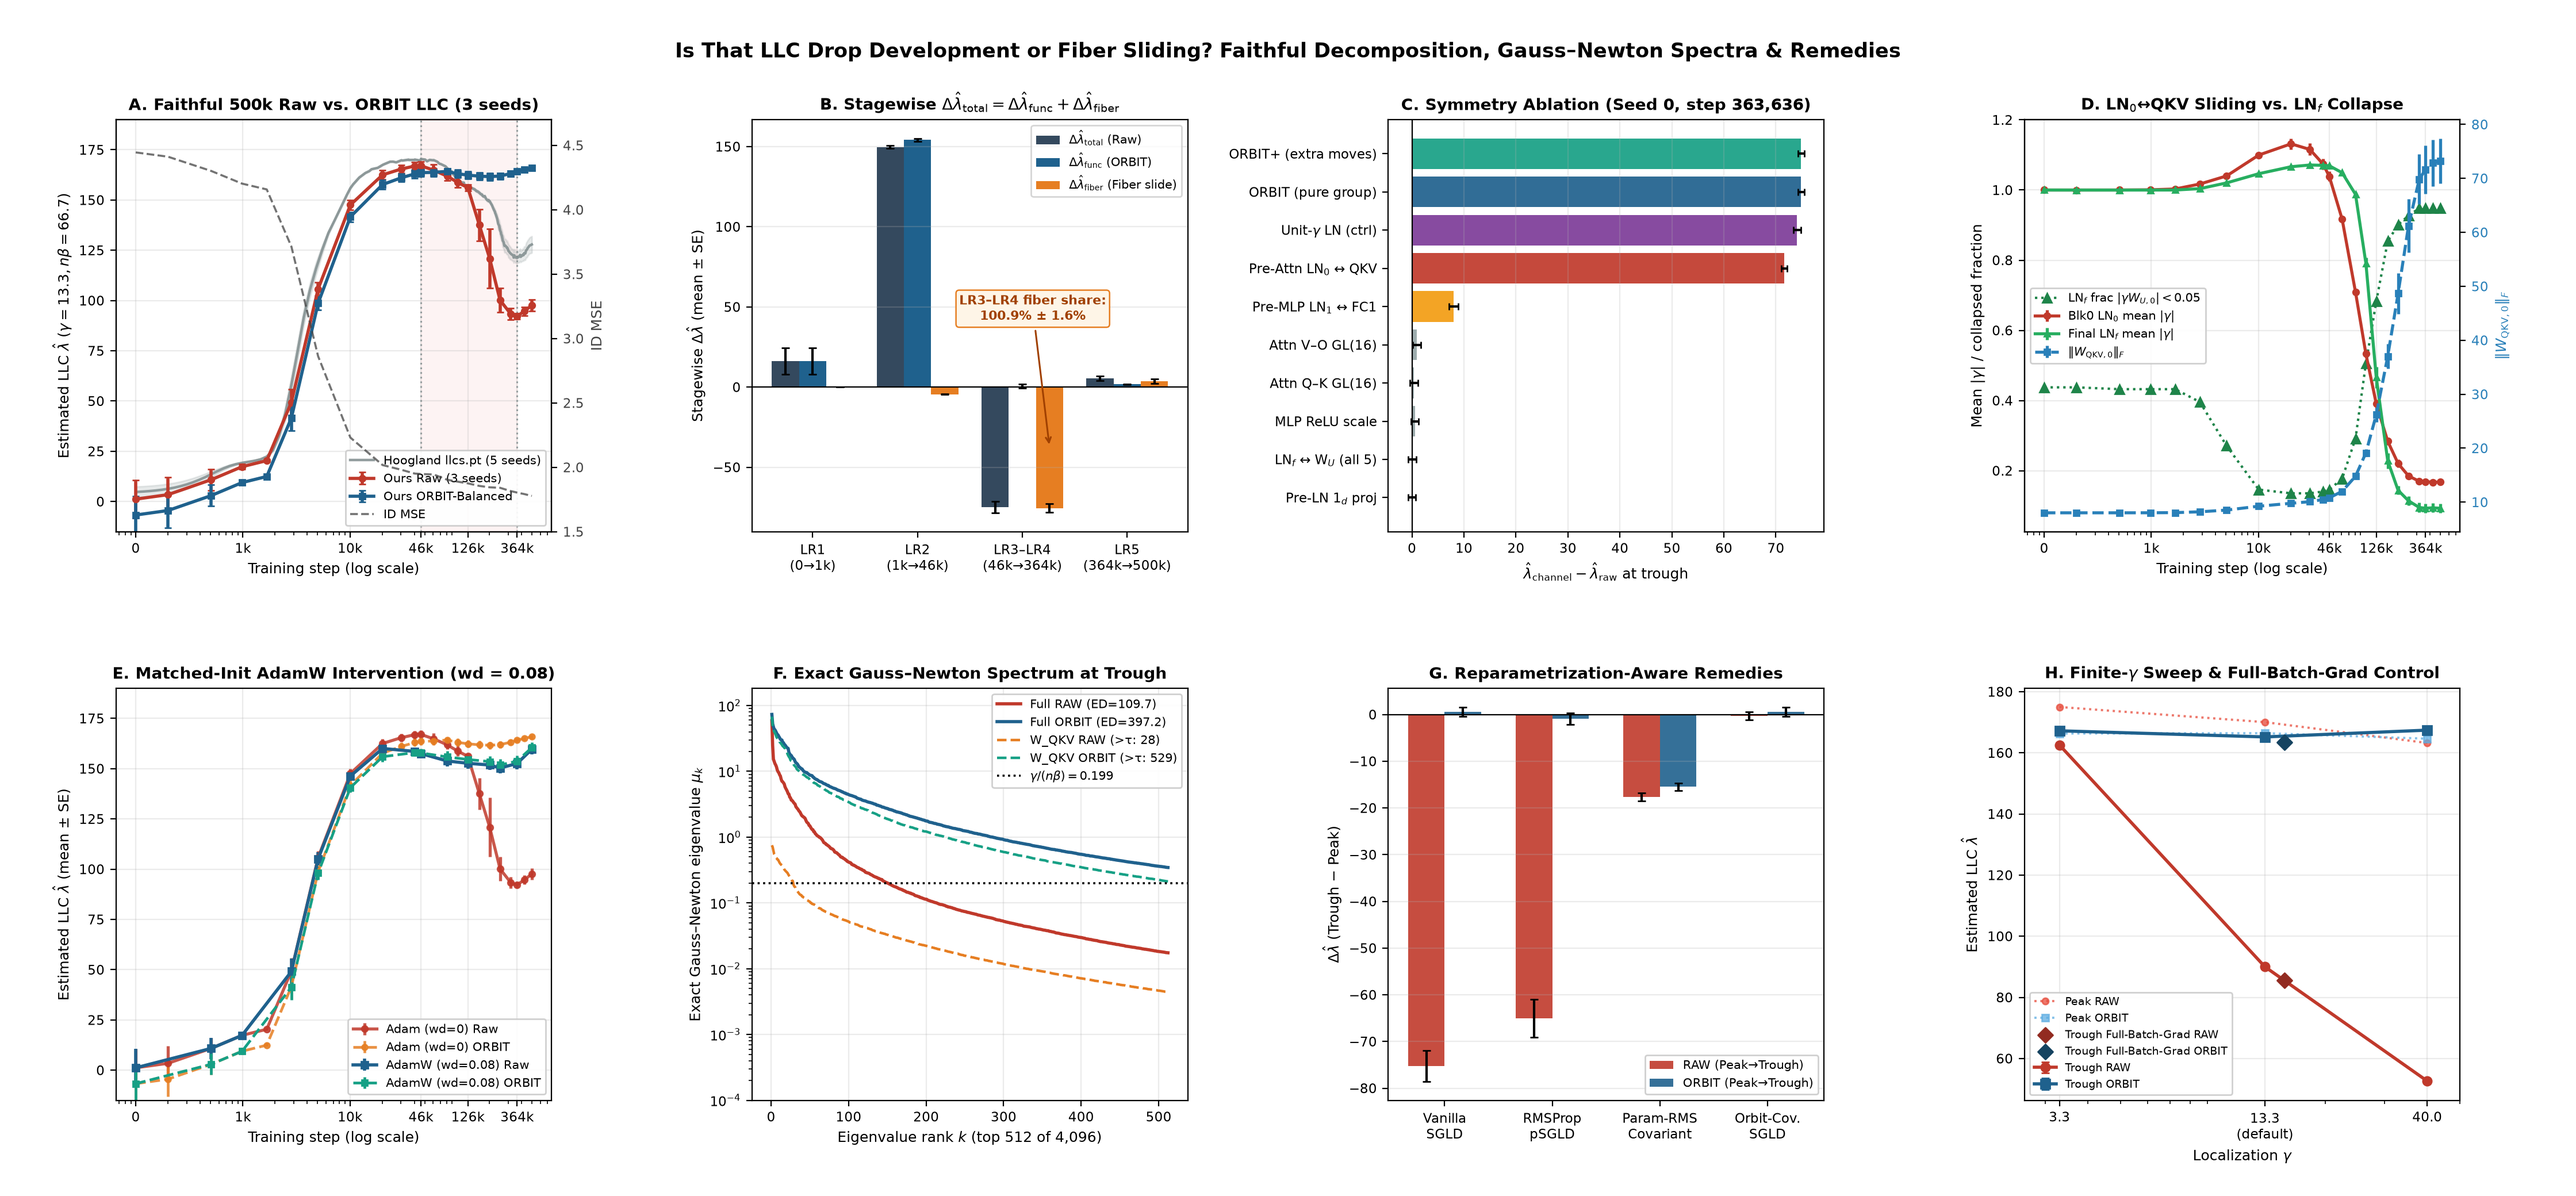
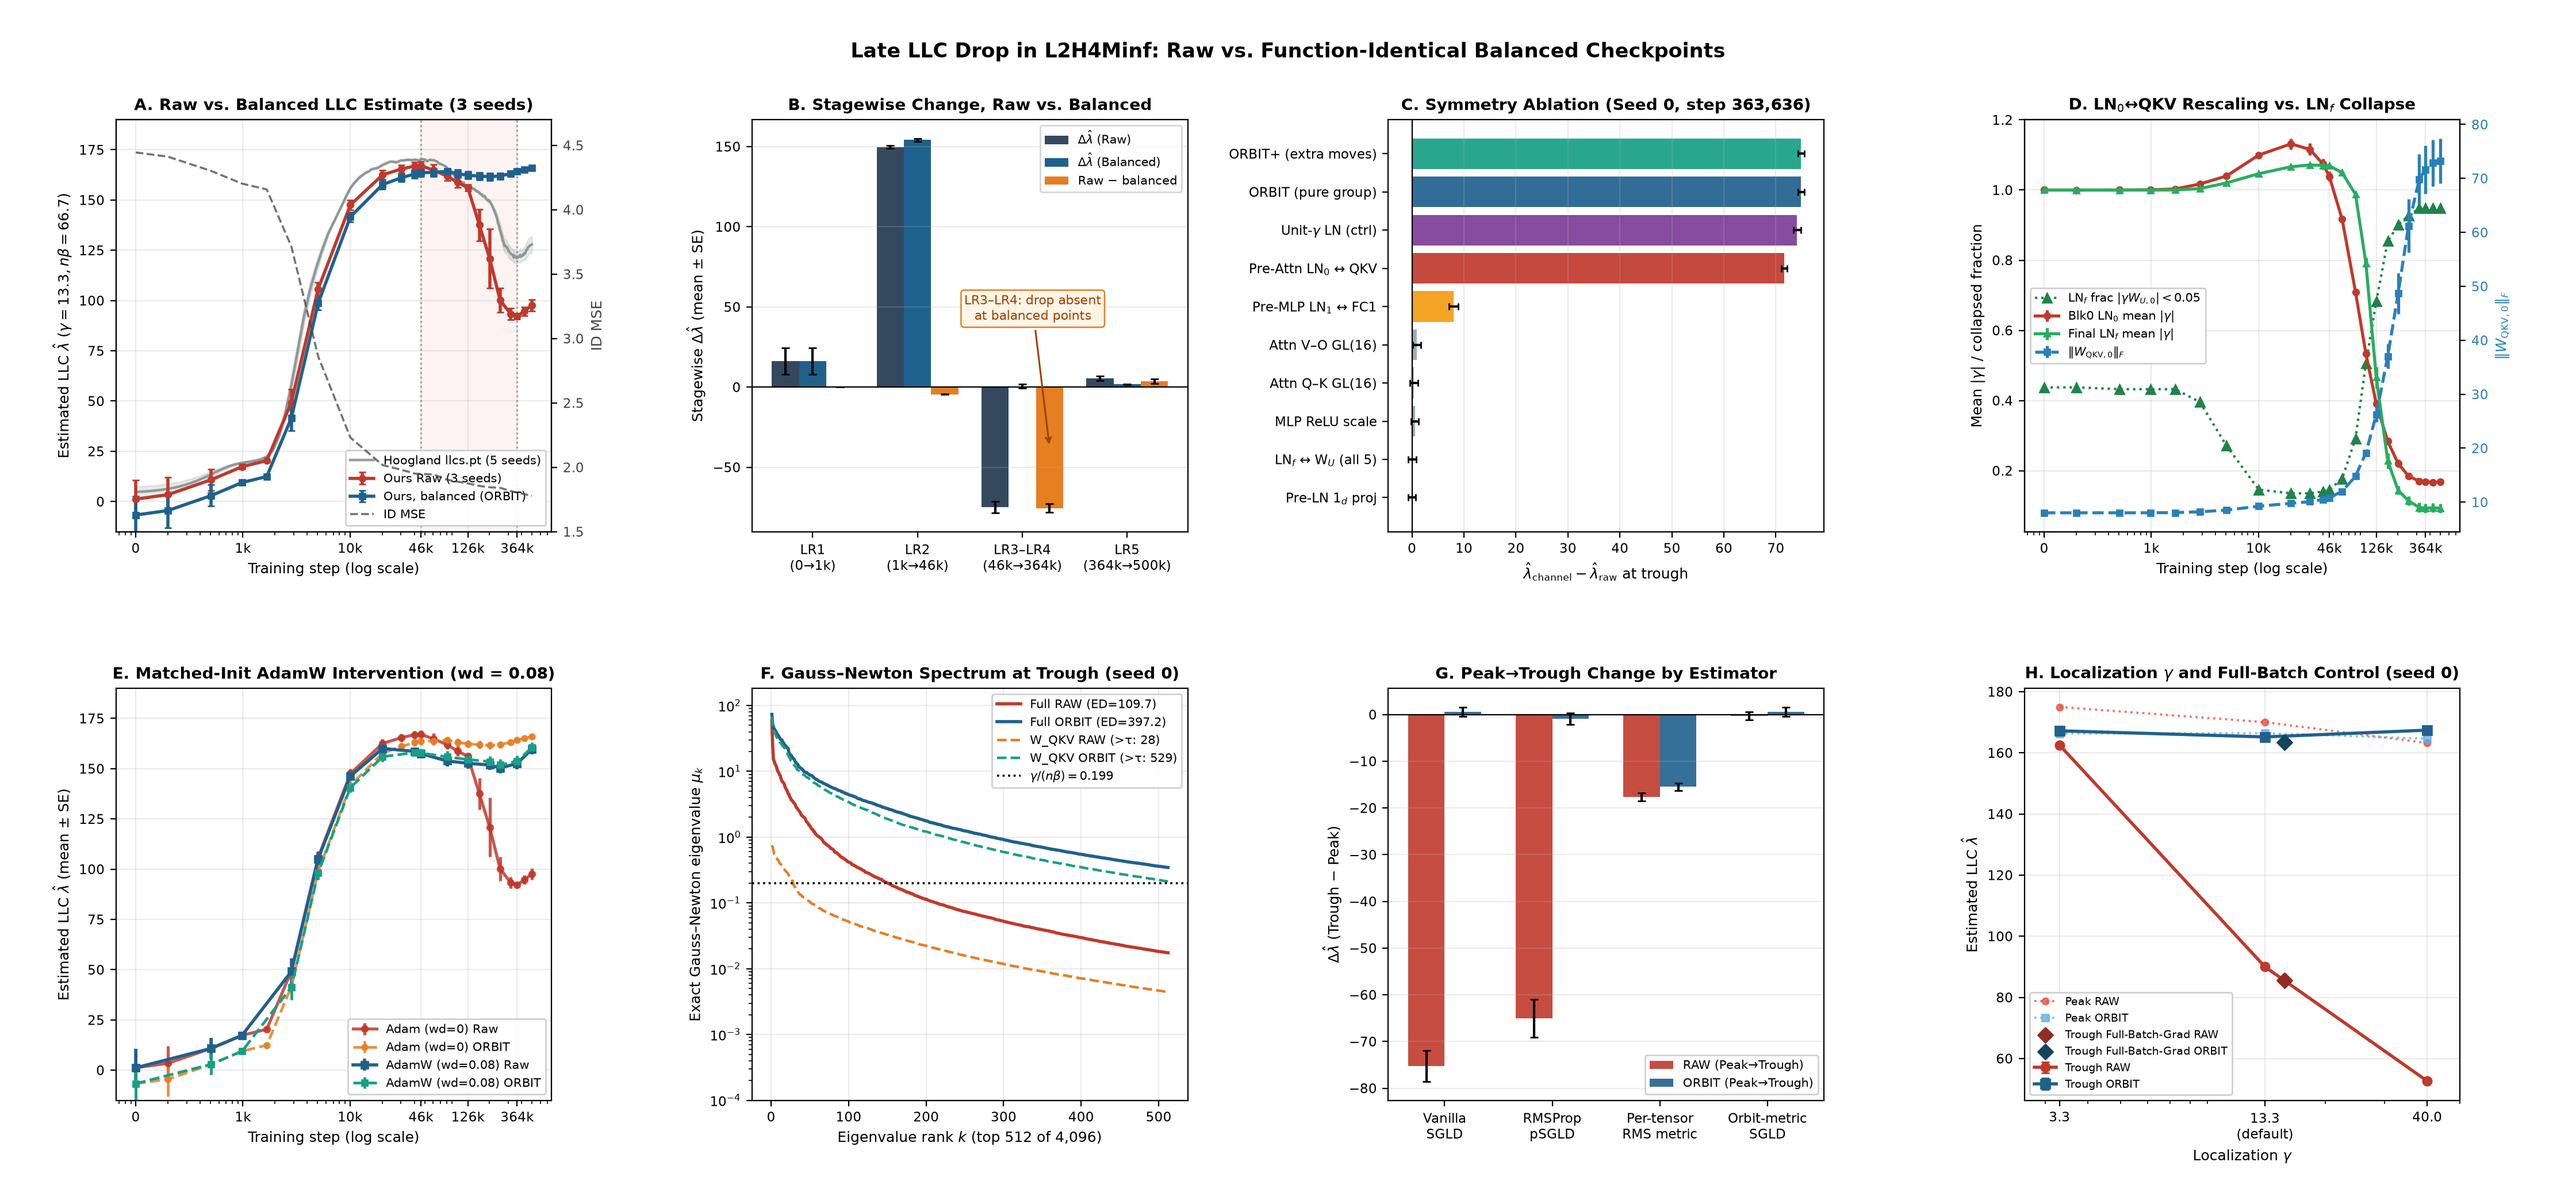
Track A figure: plain panel titles, drop 'faithful' and fiber-share callout (replot only, data unchanged)

diff --git a/experiments/devinterp_fiber_decomposition.py b/experiments/devinterp_fiber_decomposition.py
@@ -1,6 +1,6 @@
 """
-Track A Empirical Study (Faithful 500k + Remedies):
-"Is That LLC Drop Development, or Is the Estimator Sliding Along a Symmetry Fiber?"
+Track A: the late LLC drop in Hoogland et al.'s L2H4Minf, raw vs. function-identical
+balanced checkpoints (3-seed 500k rerun, estimator comparison, controls).
 
 Applies exact full-model iso-functional canonicalization (`ORBIT`: pure invertible group
 actions preserving all 5 DTransformer output channels; `ORBIT+`: extra norm-reducing moves
@@ -2285,7 +2285,7 @@ def plot_results(data: dict[str, Any], png_path: Path = DEFAULT_PNG_PATH) -> Non
         ax.fill_between(hs, hm - hse, hm + hse, color="#7f8c8d", alpha=0.18)
 
     ax.errorbar(x_a, raw_m, yerr=raw_se, fmt="-o", color="#c0392b", lw=2.0, ms=3.8, capsize=2.2, label=f"Ours Raw ({n_seeds} seeds)")
-    ax.errorbar(x_a, orb_m, yerr=orb_se, fmt="-s", color="#1f618d", lw=2.0, ms=3.8, capsize=2.2, label="Ours ORBIT-Balanced")
+    ax.errorbar(x_a, orb_m, yerr=orb_se, fmt="-s", color="#1f618d", lw=2.0, ms=3.8, capsize=2.2, label="Ours, balanced (ORBIT)")
     ax.set_xscale("log")
     if t_max >= 100_000:
         ax.set_xticks([100, 1000, 10000, 46003, 126262, 363636])
@@ -2293,7 +2293,7 @@ def plot_results(data: dict[str, Any], png_path: Path = DEFAULT_PNG_PATH) -> Non
         ax.xaxis.set_minor_formatter(plt.NullFormatter())
     ax.set_xlabel("Training step (log scale)")
     ax.set_ylabel(r"Estimated LLC $\hat\lambda$ ($\gamma=13.3, n\beta=66.7$)")
-    ax.set_title(f"A. Faithful 500k Raw vs. ORBIT LLC ({n_seeds} seeds)")
+    ax.set_title(f"A. Raw vs. Balanced LLC Estimate ({n_seeds} seeds)")
     ax.set_ylim(-15, 190)
     ax.grid(True, alpha=0.25)
 
@@ -2321,25 +2321,24 @@ def plot_results(data: dict[str, Any], png_path: Path = DEFAULT_PNG_PATH) -> Non
     idx = np.arange(len(s_keys))
     w = 0.26
     ax.axhline(0, color="black", lw=0.8)
-    ax.bar(idx - w, [stages[k]["d_total_mean"] for k in s_keys], w, yerr=[stages[k]["d_total_se"] for k in s_keys], capsize=2.5, color="#34495e", label=r"$\Delta\hat\lambda_{\mathrm{total}}$ (Raw)")
-    ax.bar(idx,     [stages[k]["d_func_mean"]  for k in s_keys], w, yerr=[stages[k]["d_func_se"]  for k in s_keys], capsize=2.5, color="#1f618d", label=r"$\Delta\hat\lambda_{\mathrm{func}}$ (ORBIT)")
-    ax.bar(idx + w, [stages[k]["d_fiber_mean"] for k in s_keys], w, yerr=[stages[k]["d_fiber_se"] for k in s_keys], capsize=2.5, color="#e67e22", label=r"$\Delta\hat\lambda_{\mathrm{fiber}}$ (Fiber slide)")
+    ax.bar(idx - w, [stages[k]["d_total_mean"] for k in s_keys], w, yerr=[stages[k]["d_total_se"] for k in s_keys], capsize=2.5, color="#34495e", label=r"$\Delta\hat\lambda$ (Raw)")
+    ax.bar(idx,     [stages[k]["d_func_mean"]  for k in s_keys], w, yerr=[stages[k]["d_func_se"]  for k in s_keys], capsize=2.5, color="#1f618d", label=r"$\Delta\hat\lambda$ (Balanced)")
+    ax.bar(idx + w, [stages[k]["d_fiber_mean"] for k in s_keys], w, yerr=[stages[k]["d_fiber_se"] for k in s_keys], capsize=2.5, color="#e67e22", label="Raw − balanced")
     ax.set_xticks(idx)
     ax.set_xticklabels(s_labels)
     ax.set_ylabel(r"Stagewise $\Delta\hat\lambda$ (mean ± SE)")
-    ax.set_title(r"B. Stagewise $\Delta\hat\lambda_{\mathrm{total}} = \Delta\hat\lambda_{\mathrm{func}} + \Delta\hat\lambda_{\mathrm{fiber}}$")
+    ax.set_title("B. Stagewise Change, Raw vs. Balanced")
     ax.grid(True, axis="y", alpha=0.25)
     ax.legend(loc="upper right", frameon=True)
     if "LR34_peak_to_trough" in stages and t_max >= 100_000:
         sh = stages["LR34_peak_to_trough"]["fiber_share_pct_mean"]
         sh_se = stages["LR34_peak_to_trough"]["fiber_share_pct_se"]
         ax.annotate(
-            f"LR3–LR4 fiber share:\n{sh:.1f}% ± {sh_se:.1f}%",
+            "LR3–LR4: drop absent\nat balanced points",
             xy=(2 + w, stages["LR34_peak_to_trough"]["d_fiber_mean"] * 0.5),
             xytext=(2.1, 42),
             ha="center",
             fontsize=8.0,
-            fontweight="bold",
             color="#a04000",
             bbox=dict(boxstyle="round,pad=0.25", facecolor="#fef5e7", edgecolor="#e67e22", lw=0.9),
             arrowprops=dict(arrowstyle="->", color="#a04000", lw=1.1),
@@ -2404,7 +2403,7 @@ def plot_results(data: dict[str, Any], png_path: Path = DEFAULT_PNG_PATH) -> Non
         ax.xaxis.set_minor_formatter(plt.NullFormatter())
     ax.set_xlabel("Training step (log scale)")
     ax.set_ylabel(r"Mean $|\gamma|$ / collapsed fraction")
-    ax.set_title(r"D. LN$_0$↔QKV Sliding vs. LN$_f$ Collapse")
+    ax.set_title(r"D. LN$_0$↔QKV Rescaling vs. LN$_f$ Collapse")
     ax.grid(True, alpha=0.25)
     ax2 = ax.twinx()
     ax2.errorbar(x_a, qkv0_m, yerr=qkv0_se, fmt="--s", color="#2980b9", lw=1.9, ms=3.8, label=r"$\|W_{\mathrm{QKV},0}\|_F$")
@@ -2455,7 +2454,7 @@ def plot_results(data: dict[str, Any], png_path: Path = DEFAULT_PNG_PATH) -> Non
         ax.axhline(tau, color="black", ls=":", lw=1.3, label=fr"$\gamma/(n\beta)={tau:.3f}$")
         ax.set_xlabel("Eigenvalue rank $k$ (top 512 of 4,096)")
         ax.set_ylabel(r"Exact Gauss–Newton eigenvalue $\mu_k$")
-        ax.set_title("F. Exact Gauss–Newton Spectrum at Trough")
+        ax.set_title(f"F. Gauss–Newton Spectrum at Trough ({gn_seeds[0].replace('_', ' ')})")
         ax.set_ylim(1e-4, max(float(ev_fo[0]), float(ev_fr[0])) * 2.5)
         ax.grid(True, alpha=0.25)
         ax.legend(loc="upper right", frameon=True, framealpha=0.92)
@@ -2467,8 +2466,8 @@ def plot_results(data: dict[str, Any], png_path: Path = DEFAULT_PNG_PATH) -> Non
     est_labels = {
         "vanilla": "Vanilla\nSGLD",
         "rmsprop_psgld": "RMSProp\npSGLD",
-        "param_rms_covariant": "Param-RMS\nCovariant",
-        "orbit_covariant": "Orbit-Cov.\nSGLD",
+        "param_rms_covariant": "Per-tensor\nRMS metric",
+        "orbit_covariant": "Orbit-metric\nSGLD",
     }
     if est_order:
         x_e = np.arange(len(est_order))
@@ -2483,7 +2482,7 @@ def plot_results(data: dict[str, Any], png_path: Path = DEFAULT_PNG_PATH) -> Non
         ax.set_xticks(x_e)
         ax.set_xticklabels([est_labels[e] for e in est_order])
         ax.set_ylabel(r"$\Delta\hat\lambda$ (Trough $-$ Peak)")
-        ax.set_title("G. Reparametrization-Aware Remedies")
+        ax.set_title("G. Peak→Trough Change by Estimator")
         ax.grid(True, axis="y", alpha=0.25)
         ax.legend(loc="lower right", frameon=True, framealpha=0.92)
 
@@ -2515,12 +2514,12 @@ def plot_results(data: dict[str, Any], png_path: Path = DEFAULT_PNG_PATH) -> Non
         ax.set_xlim(2.6, 50.0)
         ax.set_xlabel(r"Localization $\gamma$")
         ax.set_ylabel(r"Estimated LLC $\hat\lambda$")
-        ax.set_title(r"H. Finite-$\gamma$ Sweep & Full-Batch-Grad Control")
+        ax.set_title(r"H. Localization $\gamma$ and Full-Batch Control (seed 0)")
         ax.grid(True, alpha=0.25)
         ax.legend(loc="lower left", fontsize=6.9, frameon=True, framealpha=0.92)
 
     fig.suptitle(
-        "Is That LLC Drop Development or Fiber Sliding? Faithful Decomposition, Gauss–Newton Spectra & Remedies",
+        "Late LLC Drop in L2H4Minf: Raw vs. Function-Identical Balanced Checkpoints",
         fontsize=12.5,
         fontweight="bold",
         y=0.965,
@@ -2536,7 +2535,7 @@ def plot_results(data: dict[str, Any], png_path: Path = DEFAULT_PNG_PATH) -> Non
 # =============================================================================
 
 def parse_args() -> argparse.Namespace:
-    p = argparse.ArgumentParser(description="Track A: Faithful 500k DevInterp Fiber Decomposition + Remedies")
+    p = argparse.ArgumentParser(description="Track A: L2H4Minf LLC drop, raw vs. balanced checkpoints")
     p.add_argument("--smoke", action="store_true", help="Fast end-to-end verification of all components")
     p.add_argument("--train-only", action="store_true", help="Train models and save .safetensors checkpoints + manifest")
     p.add_argument("--from-checkpoints", "--eval-only", dest="eval_only", action="store_true", help="Evaluate saved checkpoints")
